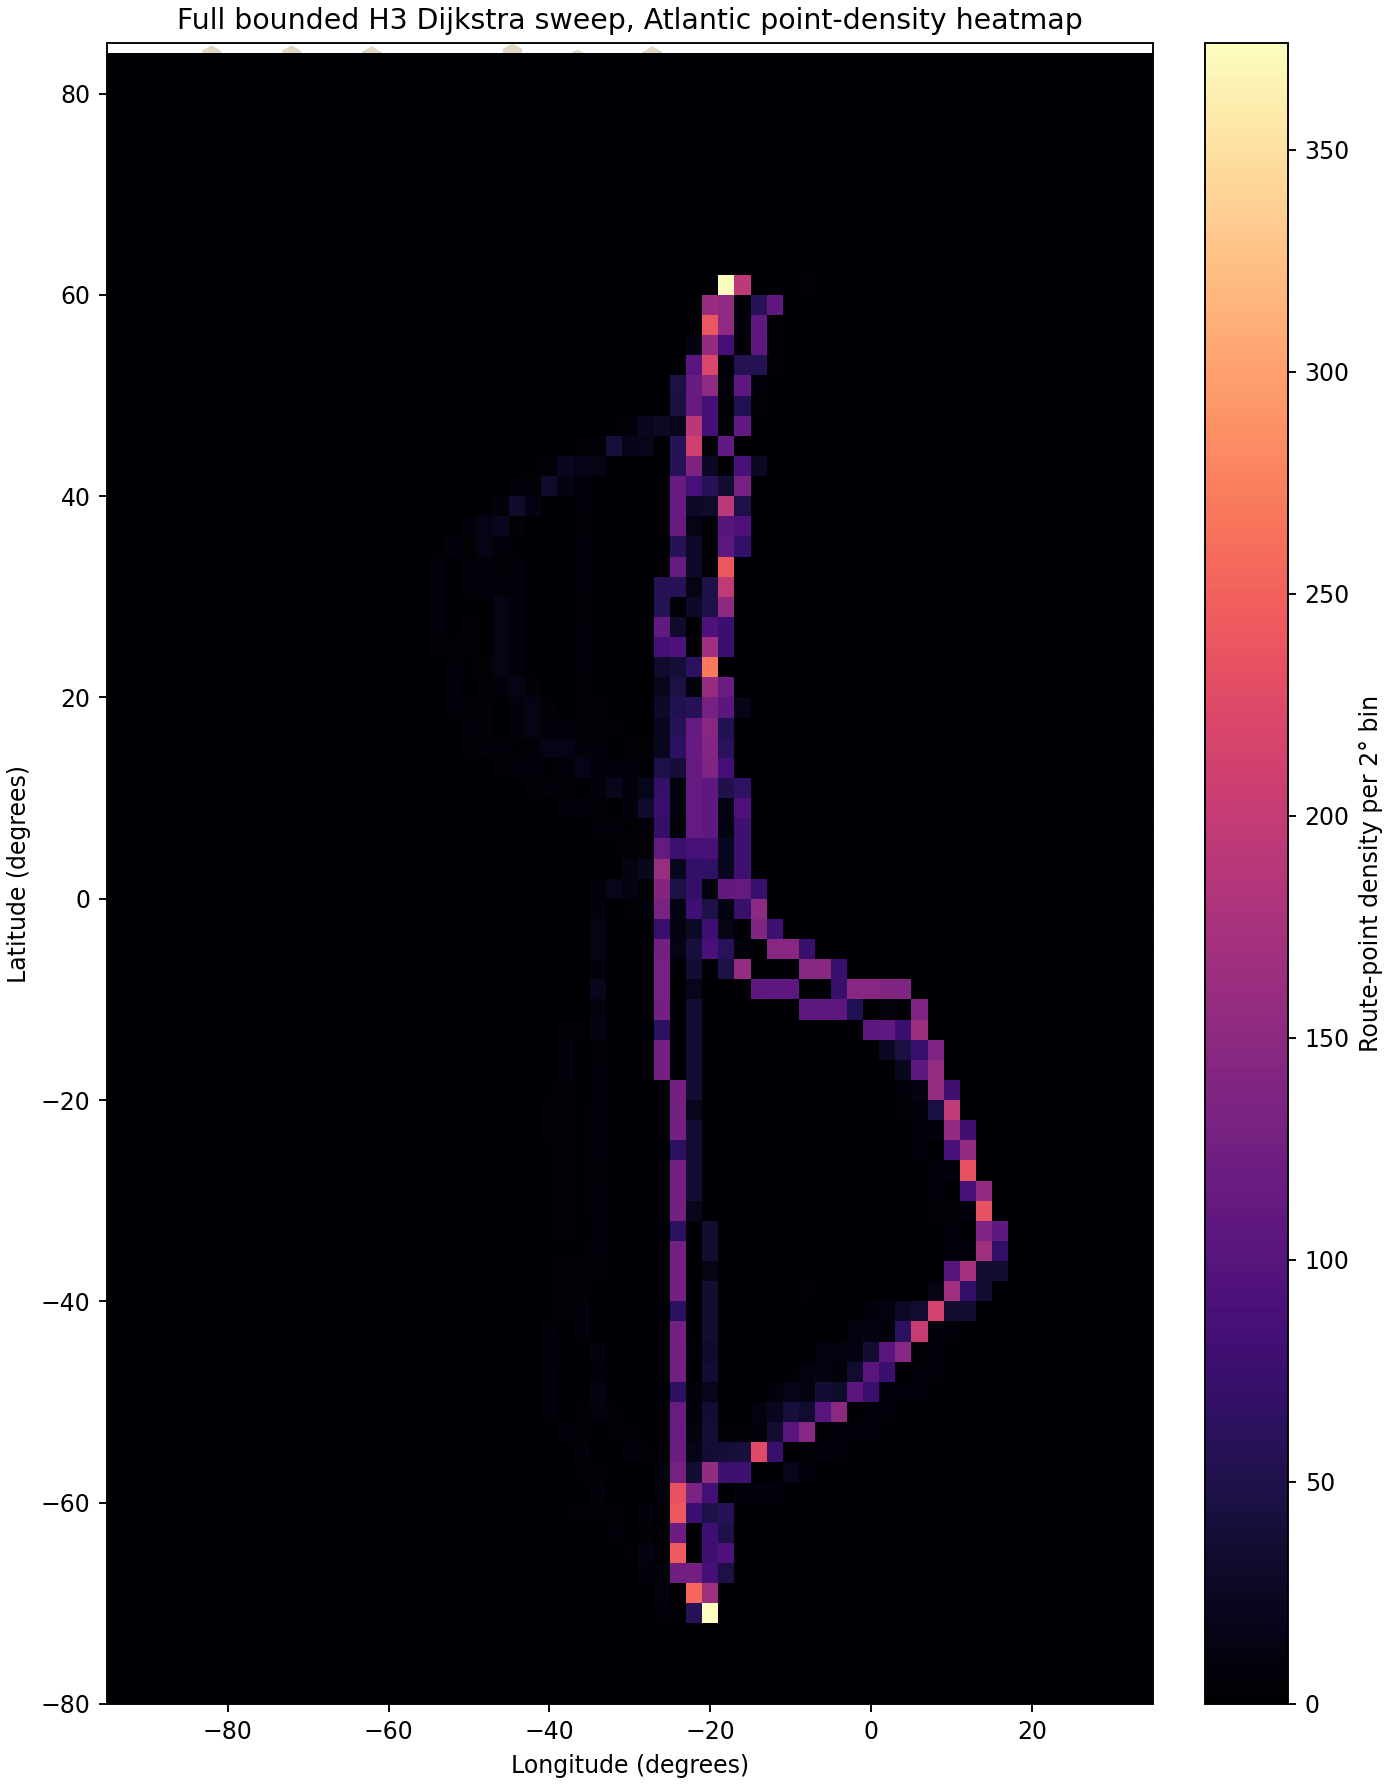
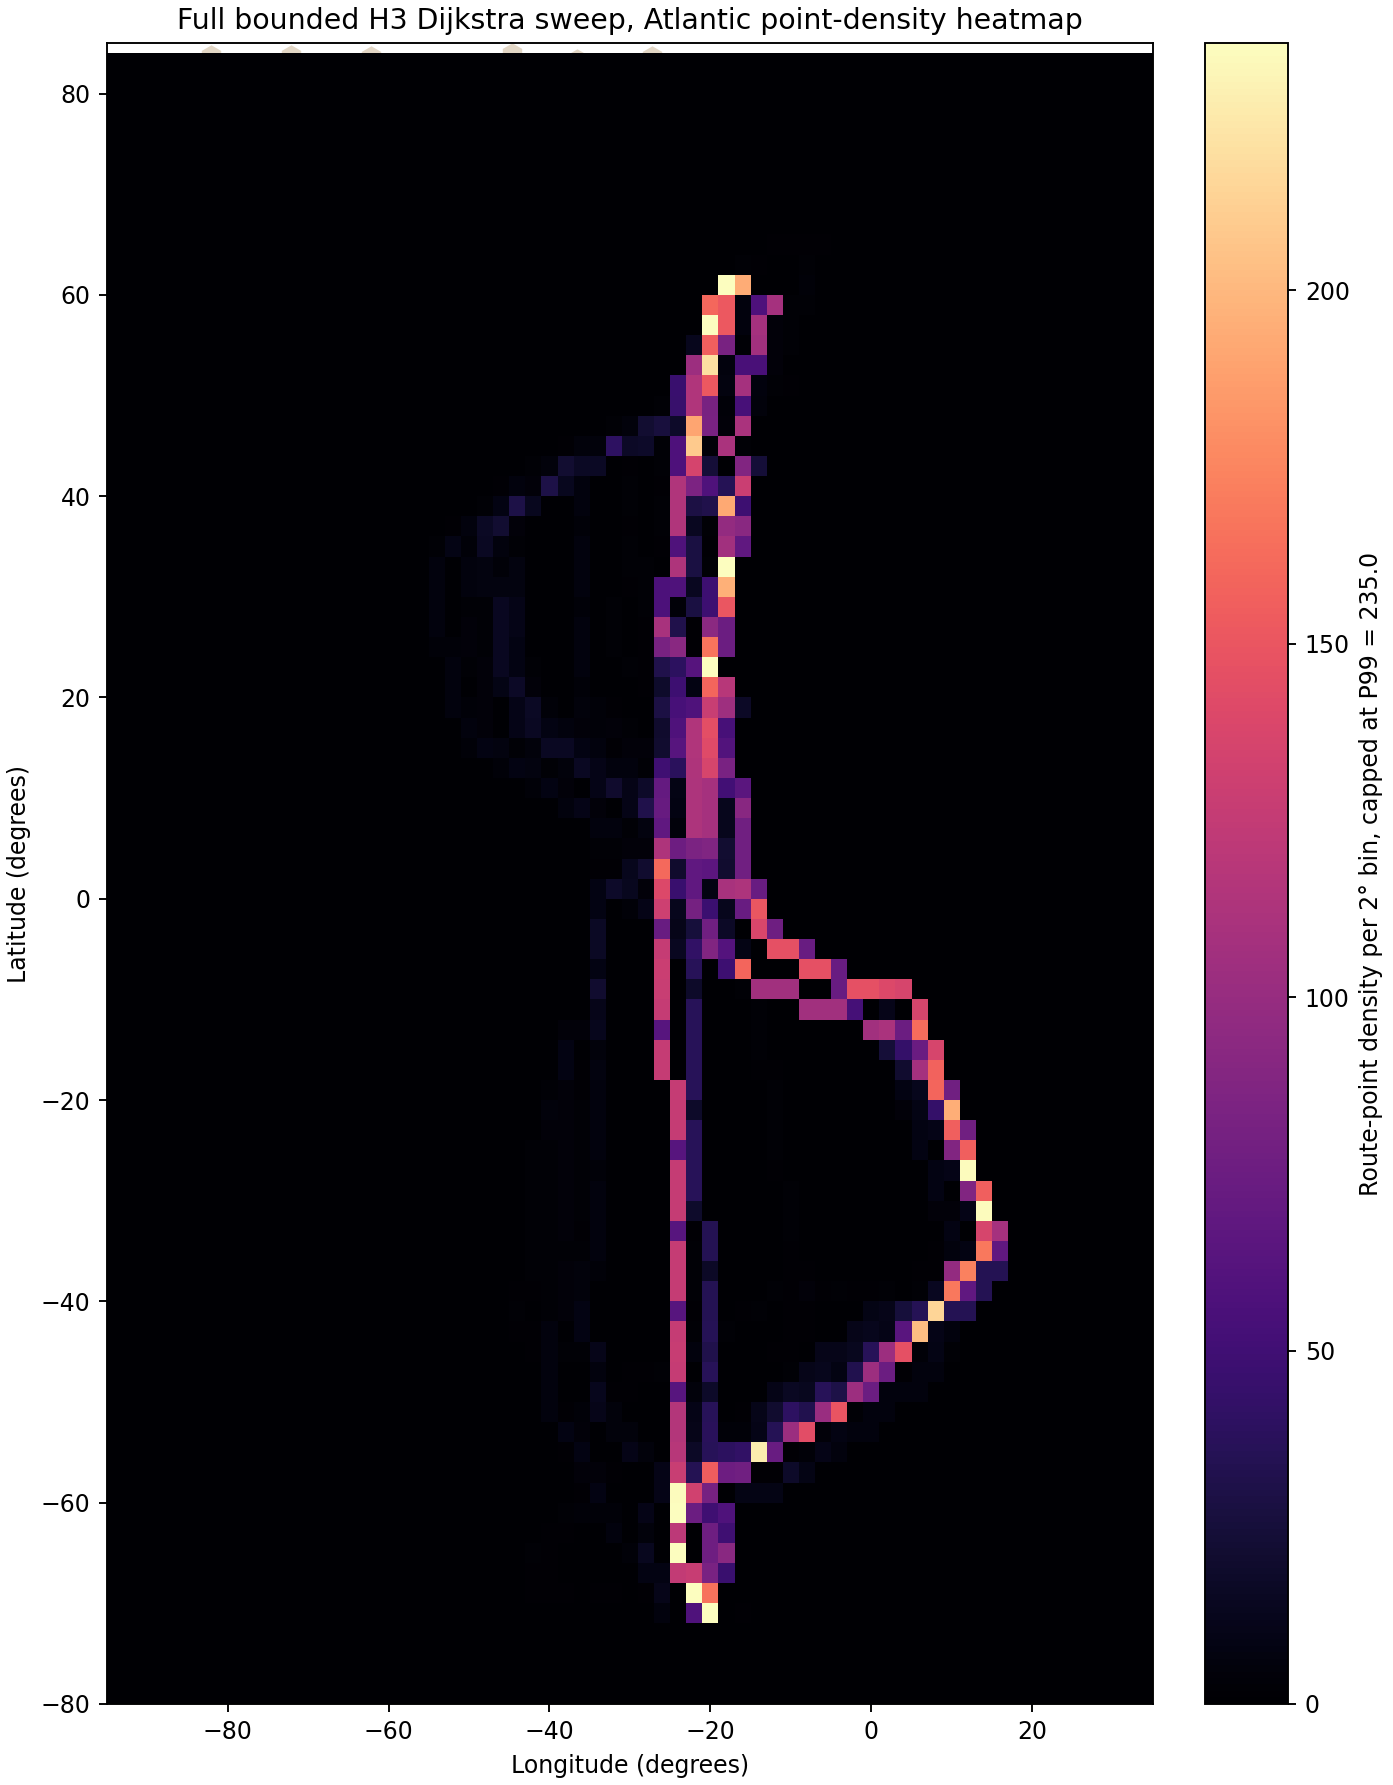
Cap full sweep heatmap at percentile

diff --git a/src/scripts/15_report_full_bounded_h3_dijkstra.py b/src/scripts/15_report_full_bounded_h3_dijkstra.py
@@ -68,9 +68,11 @@ def main() -> None:
 
     fig, ax = plt.subplots(figsize=(8.2, 10.5), constrained_layout=True)
     ax.scatter(masked["lon"], masked["lat"], s=90, marker="h", color="#c8b08f", alpha=0.5, linewidths=0)
-    mesh = ax.pcolormesh(xedges, yedges, heatmap, cmap="magma", shading="auto")
+    positive_heat = heatmap[heatmap > 0]
+    vmax = float(np.percentile(positive_heat, 99)) if positive_heat.size else 1.0
+    mesh = ax.pcolormesh(xedges, yedges, heatmap, cmap="magma", shading="auto", vmin=0.0, vmax=vmax)
     cbar = fig.colorbar(mesh, ax=ax)
-    cbar.set_label("Route-point density per 2° bin")
+    cbar.set_label(f"Route-point density per 2° bin, capped at P99 = {vmax:.1f}")
     ax.set_title("Full bounded H3 Dijkstra sweep, Atlantic point-density heatmap")
     ax.set_xlabel("Longitude (degrees)")
     ax.set_ylabel("Latitude (degrees)")
